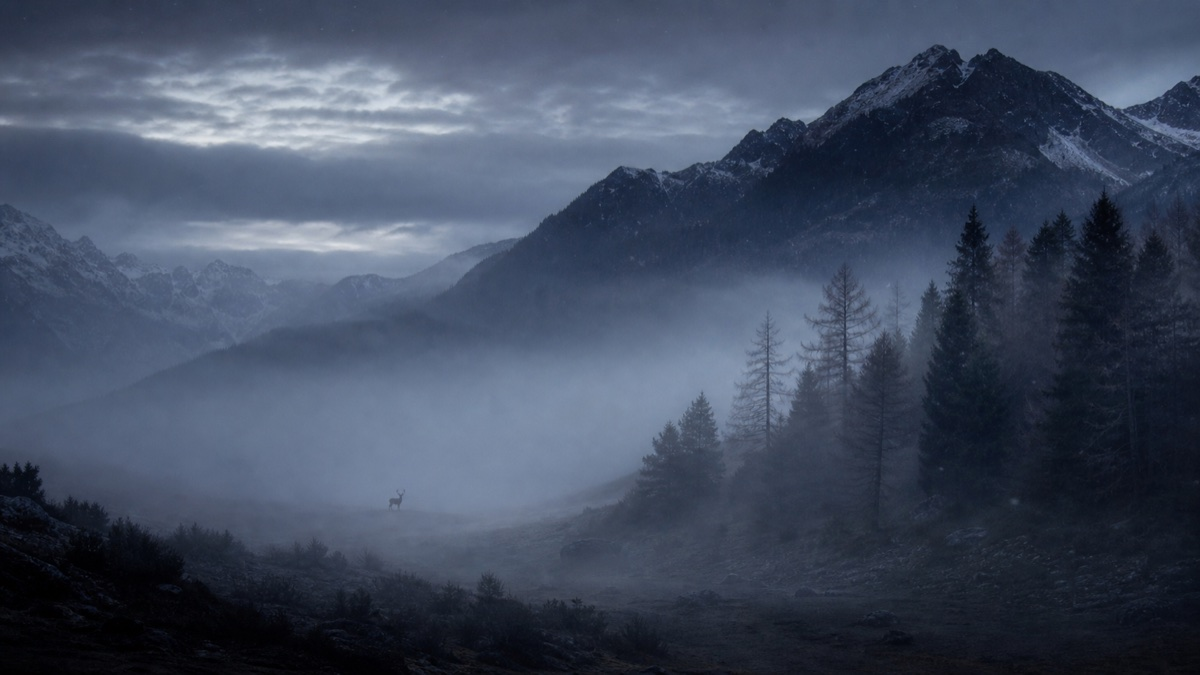
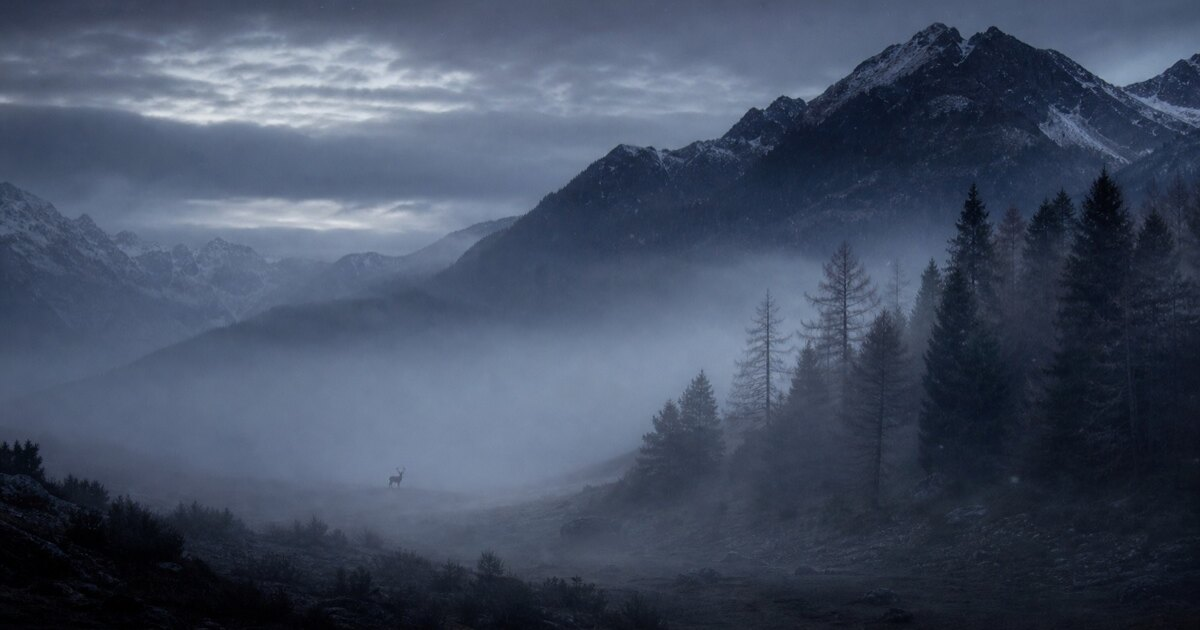
feat: add SEO and analytics consent

diff --git a/src/components/layout/CookieConsent.tsx b/src/components/layout/CookieConsent.tsx
@@ -1,0 +1,75 @@
+"use client";
+
+import { useEffect, useState } from "react";
+import { AnimatePresence, motion } from "framer-motion";
+import { useTranslations } from "next-intl";
+
+import { Link } from "@/i18n/navigation";
+
+const CONSENT_KEY = "mfl-analytics-consent";
+
+export function CookieConsent() {
+  const t = useTranslations("cookies.banner");
+  const [visible, setVisible] = useState(false);
+  const analyticsAvailable = Boolean(process.env.NEXT_PUBLIC_GA_ID);
+
+  useEffect(() => {
+    if (!analyticsAvailable) return;
+    setVisible(window.localStorage.getItem(CONSENT_KEY) === null);
+  }, [analyticsAvailable]);
+
+  const decide = (value: "granted" | "denied") => {
+    window.localStorage.setItem(CONSENT_KEY, value);
+    window.dispatchEvent(
+      new CustomEvent("mfl-consent-change", { detail: value }),
+    );
+    setVisible(false);
+  };
+
+  return (
+    <AnimatePresence>
+      {visible && (
+        <motion.aside
+          initial={{ opacity: 0, y: 24 }}
+          animate={{ opacity: 1, y: 0 }}
+          exit={{ opacity: 0, y: 16 }}
+          transition={{ duration: 0.45, ease: [0.22, 1, 0.36, 1] }}
+          className="fixed right-4 bottom-4 left-4 z-[110] mx-auto max-w-3xl rounded-[1.4rem] border border-white/14 bg-[#090909]/95 p-5 shadow-2xl shadow-black/70 backdrop-blur-xl sm:right-6 sm:bottom-6 sm:left-6 sm:p-6"
+          aria-label={t("label")}
+        >
+          <div className="flex flex-col gap-5 sm:flex-row sm:items-center sm:justify-between">
+            <div>
+              <p className="text-sm font-medium">{t("title")}</p>
+              <p className="mt-2 max-w-xl text-xs leading-5 text-white/45">
+                {t("description")}{" "}
+                <Link
+                  href="/cookies"
+                  className="focus-ring rounded-sm text-white underline decoration-white/30 underline-offset-4"
+                >
+                  {t("link")}
+                </Link>
+                .
+              </p>
+            </div>
+            <div className="flex shrink-0 gap-2">
+              <button
+                type="button"
+                onClick={() => decide("denied")}
+                className="focus-ring rounded-full border border-white/16 px-4 py-2.5 text-[0.58rem] font-semibold tracking-[0.14em] text-white/65 uppercase transition hover:border-white/35 hover:text-white"
+              >
+                {t("essential")}
+              </button>
+              <button
+                type="button"
+                onClick={() => decide("granted")}
+                className="focus-ring rounded-full bg-white px-4 py-2.5 text-[0.58rem] font-semibold tracking-[0.14em] text-black uppercase transition hover:bg-white/82"
+              >
+                {t("allow")}
+              </button>
+            </div>
+          </div>
+        </motion.aside>
+      )}
+    </AnimatePresence>
+  );
+}

diff --git a/src/components/seo/StructuredData.tsx b/src/components/seo/StructuredData.tsx
@@ -1,0 +1,55 @@
+import { siteConfig } from "@/config/site";
+import { socials } from "@/config/socials";
+
+export function StructuredData() {
+  const data = {
+    "@context": "https://schema.org",
+    "@graph": [
+      {
+        "@type": "WebSite",
+        "@id": `${siteConfig.siteUrl}/#website`,
+        url: siteConfig.siteUrl,
+        name: siteConfig.name,
+        inLanguage: ["en", "it"],
+      },
+      {
+        "@type": ["Organization", "Brand"],
+        "@id": `${siteConfig.siteUrl}/#brand`,
+        name: siteConfig.name,
+        url: siteConfig.siteUrl,
+        logo: `${siteConfig.siteUrl}/logo/mountain-fauna-logo.png`,
+        founder: { "@id": `${siteConfig.siteUrl}/#founder` },
+        sameAs: [socials.youtube, socials.instagram, socials.tiktok],
+      },
+      {
+        "@type": "Person",
+        "@id": `${siteConfig.siteUrl}/#founder`,
+        name: siteConfig.founder,
+        image: `${siteConfig.siteUrl}/images/founder/founder.jpeg`,
+        homeLocation: {
+          "@type": "AdministrativeArea",
+          name: "Trentino-Alto Adige",
+        },
+        url: `${siteConfig.siteUrl}/en/founder`,
+        sameAs: [socials.linkedin],
+        knowsAbout: [
+          "Wildlife observation",
+          "Digiscoping",
+          "Alpine exploration",
+          "Skiing",
+          "E-bike",
+          "Cinematic video",
+        ],
+      },
+    ],
+  };
+
+  return (
+    <script
+      type="application/ld+json"
+      dangerouslySetInnerHTML={{
+        __html: JSON.stringify(data).replace(/</g, "\\u003c"),
+      }}
+    />
+  );
+}

diff --git a/src/app/sitemap.ts b/src/app/sitemap.ts
@@ -1,0 +1,36 @@
+import type { MetadataRoute } from "next";
+
+import { siteConfig } from "@/config/site";
+import { routing } from "@/i18n/routing";
+
+const routes = [
+  "",
+  "/founder",
+  "/digiscoping",
+  "/videos",
+  "/gear",
+  "/collaboration",
+  "/links",
+  "/privacy",
+  "/cookies",
+] as const;
+
+export default function sitemap(): MetadataRoute.Sitemap {
+  return routing.locales.flatMap((locale) =>
+    routes.map((route) => ({
+      url: `${siteConfig.siteUrl}/${locale}${route}`,
+      lastModified: new Date(),
+      changeFrequency:
+        route === "" || route === "/videos"
+          ? ("weekly" as const)
+          : ("monthly" as const),
+      priority: route === "" ? 1 : route === "/videos" ? 0.9 : 0.7,
+      alternates: {
+        languages: {
+          en: `${siteConfig.siteUrl}/en${route}`,
+          it: `${siteConfig.siteUrl}/it${route}`,
+        },
+      },
+    })),
+  );
+}

diff --git a/src/app/manifest.ts b/src/app/manifest.ts
@@ -1,0 +1,21 @@
+import type { MetadataRoute } from "next";
+
+export default function manifest(): MetadataRoute.Manifest {
+  return {
+    name: "Mountain Fauna Lover",
+    short_name: "Mountain Fauna",
+    description:
+      "Wildlife observation, digiscoping and cinematic alpine stories.",
+    start_url: "/",
+    display: "standalone",
+    background_color: "#030303",
+    theme_color: "#030303",
+    icons: [
+      {
+        src: "/logo/mountain-fauna-logo.png",
+        sizes: "800x800",
+        type: "image/png",
+      },
+    ],
+  };
+}

diff --git a/src/app/layout.tsx b/src/app/layout.tsx
@@ -28,6 +28,21 @@ export const metadata: Metadata = {
     default: siteConfig.name,
     template: `%s | ${siteConfig.name}`,
   },
+  keywords: [
+    "Mountain Fauna Lover",
+    "digiscoping",
+    "wildlife observation",
+    "Trentino-Alto Adige",
+    "Val di Rabbi",
+    "Stelvio National Park",
+    "alpine wildlife",
+  ],
+  authors: [{ name: siteConfig.founder }],
+  creator: siteConfig.founder,
+  robots: {
+    index: true,
+    follow: true,
+  },
   icons: {
     icon: "/favicon.ico",
   },

diff --git a/src/app/robots.ts b/src/app/robots.ts
@@ -1,0 +1,15 @@
+import type { MetadataRoute } from "next";
+
+import { siteConfig } from "@/config/site";
+
+export default function robots(): MetadataRoute.Robots {
+  return {
+    rules: {
+      userAgent: "*",
+      allow: "/",
+      disallow: ["/api/"],
+    },
+    sitemap: `${siteConfig.siteUrl}/sitemap.xml`,
+    host: siteConfig.siteUrl,
+  };
+}

diff --git a/src/components/layout/GoogleAnalytics.tsx b/src/components/layout/GoogleAnalytics.tsx
@@ -1,11 +1,24 @@
 "use client";
 
+import { useEffect, useState } from "react";
 import Script from "next/script";
 
 export function GoogleAnalytics() {
   const id = process.env.NEXT_PUBLIC_GA_ID;
+  const [consented, setConsented] = useState(false);
 
-  if (!id) return null;
+  useEffect(() => {
+    const readConsent = () =>
+      setConsented(
+        window.localStorage.getItem("mfl-analytics-consent") === "granted",
+      );
+
+    readConsent();
+    window.addEventListener("mfl-consent-change", readConsent);
+    return () => window.removeEventListener("mfl-consent-change", readConsent);
+  }, []);
+
+  if (!id || !consented) return null;
 
   return (
     <>

diff --git a/src/lib/metadata.ts b/src/lib/metadata.ts
@@ -19,7 +19,9 @@ export function createPageMetadata({
   const canonical = `${siteConfig.siteUrl}/${locale}${path}`;
 
   return {
-    title,
+    title: {
+      absolute: title,
+    },
     description,
     alternates: {
       canonical,

diff --git a/src/app/[locale]/page.tsx b/src/app/[locale]/page.tsx
@@ -9,6 +9,7 @@ import { GearPreview } from "@/components/sections/GearPreview";
 import { HeroSection } from "@/components/sections/HeroSection";
 import { IdentityStatement } from "@/components/sections/IdentityStatement";
 import { StatsSection } from "@/components/sections/StatsSection";
+import { StructuredData } from "@/components/seo/StructuredData";
 import type { AppLocale } from "@/i18n/routing";
 import { createPageMetadata } from "@/lib/metadata";
 
@@ -37,6 +38,7 @@ export default async function Home({
 
   return (
     <>
+      <StructuredData />
       <LogoPortalIntro />
       <HeroSection />
       <IdentityStatement />

diff --git a/src/components/layout/PageShell.tsx b/src/components/layout/PageShell.tsx
@@ -2,6 +2,7 @@ import type { ReactNode } from "react";
 import { useTranslations } from "next-intl";
 
 import { CustomCursor } from "../cinematic/CustomCursor";
+import { CookieConsent } from "./CookieConsent";
 import { Footer } from "./Footer";
 import { Navbar } from "./Navbar";
 
@@ -20,6 +21,7 @@ export function PageShell({ children }: { children: ReactNode }) {
       <Navbar />
       <main id="main-content">{children}</main>
       <Footer />
+      <CookieConsent />
     </div>
   );
 }

diff --git a/DOCUMENTATION.md b/DOCUMENTATION.md
@@ -27,3 +27,7 @@
 - [2026-06-11 22:45 CEST]: Supplied Founder Portrait
   - _Details_: Replaced the designed founder placeholder with the supplied Mattioli Simone portrait across the homepage and founder page.
   - _Tech Notes_: Preserved the uploaded `founder.jpeg` asset path, updated localized alt text, and removed placeholder-only presentation copy.
+
+- [2026-06-11 22:49 CEST]: SEO, Consent, and Deployment Documentation
+  - _Details_: Completed the search/discovery layer, analytics consent behavior, owner handoff, asset guide, environment reference, and Vercel deployment documentation.
+  - _Tech Notes_: Added JSON-LD for WebSite, Brand/Organization, and Person; sitemap, robots, web app manifest, canonical locale alternates, consent-gated optional Google Analytics, retained Vercel Analytics, tracked optional asset directories, and documented every editable data source and placeholder.